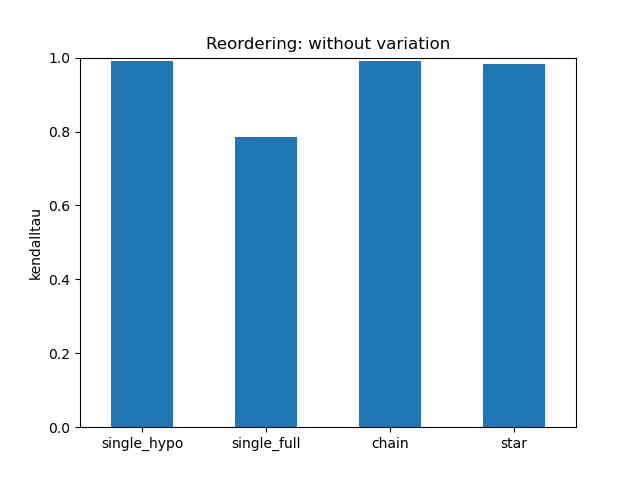
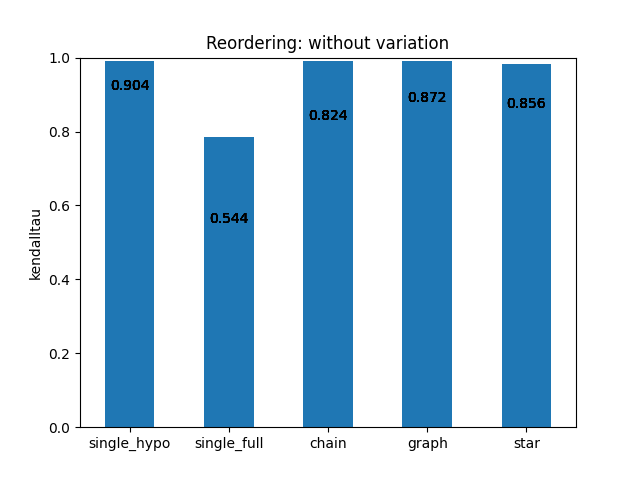
ADDED accuracy labels

diff --git a/visualization.py b/visualization.py
@@ -6,7 +6,8 @@ import os
 import re
 import ast
 from pySankey.sankey import sankey
-import plotly.graph_objects as go # TODO: Full sankey with go https://python-graph-gallery.com/sankey-diagram-with-python-and-plotly/
+import numpy as np
+#import plotly.graph_objects as go # TODO: Full sankey with go https://python-graph-gallery.com/sankey-diagram-with-python-and-plotly/
 
 class Vis():
     def __init__(self, experiment_files: dict, variation: bool):
@@ -34,12 +35,15 @@ class Vis():
     def plot_performance(self):
         for metric in self.metrics:
             if self.variation:
-                self.mean_preds_df[metric].plot(kind = "bar", title= f"Reordering: with variation", rot=0, ylim=[0.0, 1.0], ylabel=metric) 
+                ax = self.mean_preds_df[metric].plot(kind = "bar", title= f"Reordering: with variation", rot=0, ylim=[0.0, 1.0], ylabel=metric) 
+
+                ax.bar_label(ax.containers[0])
 
                 plt.savefig(f"visualizations/variation/{metric}_var.png")
             else:
-                self.mean_preds_df[metric].plot(kind = "bar", title= f"Reordering: without variation", rot=0, ylim=[0.0, 1.0], ylabel=metric) 
-
+                ax = self.mean_preds_df[metric].plot(kind = "bar", title= f"Reordering: without variation", rot=0, ylim=[0.0, 1.0], ylabel=metric) 
+                ax.bar_label(ax.containers[0])
+                
                 plt.savefig(f"visualizations/no_variation/{metric}_no_var.png")
 
     def create_belief_instance(self, index: int, setup: str):
@@ -251,29 +255,30 @@ class Vis():
 
         
 if __name__ == "__main__":
-    # exp_files_no_var = {
-    #     "single_hypo": "outputs/single/Qwen3-32B/dev/outputs_146",
-    #     "single_full": "outputs/single/Qwen3-32B/dev/outputs_149",
-    #     "chain": "outputs/multi/Qwen3-32B/dev/outputs_154",
-    #     "star": "outputs/multi/Qwen3-32B/dev/outputs_157"
-    # }
-
-    # vis_no_var = Vis(exp_files_no_var, variation = False)
-    # #vis_no_var.plot_performance()
-    # vis_no_var.plot_sankey_full("chain")
-    #vis_no_var.plot_sankey("star")
-
-
-    exp_files_var = {
-        "single_hypo": "outputs/single/Qwen3-32B/dev/outputs_147",
-        "single_full": "outputs/single/Qwen3-32B/dev/outputs_152",
-        "chain_500": "outputs/multi/Qwen3-32B/dev/ckps/outputs__155_0_155_1",
-        "star": "outputs/multi/Qwen3-32B/dev/outputs_158"
+    exp_files_no_var = {
+        "single_hypo": "outputs/single/Qwen3-32B/dev/outputs_146",
+        "single_full": "outputs/single/Qwen3-32B/dev/outputs_149",
+        "chain": "outputs/multi/Qwen3-32B/dev/outputs_154",
+        "graph": "outputs/multi/Qwen3-32B/dev/outputs_167",
+        "star": "outputs/multi/Qwen3-32B/dev/outputs_157"
     }
 
-    vis_var = Vis(exp_files_var, variation = True)
-    vis_var.plot_performance()
+    vis_no_var = Vis(exp_files_no_var, variation = False)
+    vis_no_var.plot_performance()
+    #vis_no_var.plot_sankey_full("graph")
+    vis_no_var.plot_sankey("graph")
+
+
+    # exp_files_var = {
+    #     "single_hypo": "outputs/single/Qwen3-32B/dev/outputs_147",
+    #     "single_full": "outputs/single/Qwen3-32B/dev/outputs_152",
+    #     "chain_500": "outputs/multi/Qwen3-32B/dev/ckps/outputs__155_0_155_1",
+    #     "star": "outputs/multi/Qwen3-32B/dev/outputs_158"
+    # }
+
+    # vis_var = Vis(exp_files_var, variation = True)
+    # vis_var.plot_performance()
     # #vis_var.plot_instance(0, "star")
-    # vis_var.plot_sankey("star")
+    #vis_var.plot_sankey("chain_500")
 
     print("Done")
